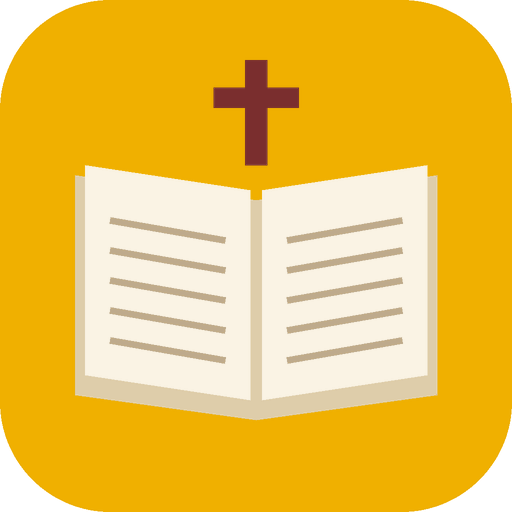
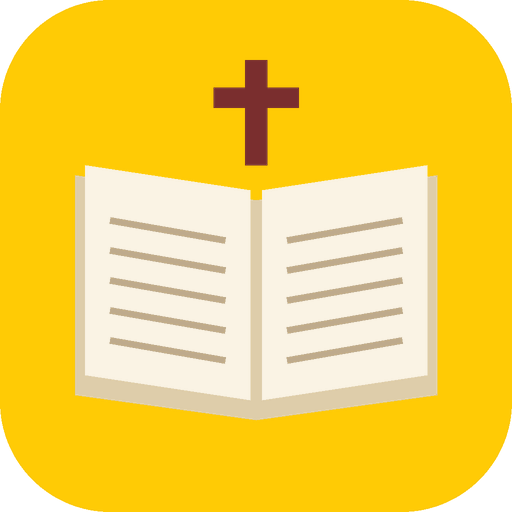
Add files via upload

diff --git a/headings.ts b/headings.ts
@@ -26,6 +26,9 @@ export interface TopicState { status: TopicStatus; topic?: string; error?: strin
 const KEY = 'sk-topic-v1';
 let cache: Record<string, string> = {};
 try { cache = JSON.parse(localStorage.getItem(KEY) || '{}'); } catch { cache = {}; }
+// 띄어쓰기 없이 붙어 버린 예전 장 주제는 버리고 새로 받기
+const squashed = (t: string) => t.replace(/[^가-힣]/g, '').length > 12 && !/\s/.test(t);
+for (const [k, v] of Object.entries(cache)) if (typeof v !== 'string' || squashed(v)) delete cache[k];
 // 예전 버전(1.4.0)에서 만든 장 주제는 그대로 가져오기
 try {
   const old = JSON.parse(localStorage.getItem('sk-heads-v1') || 'null') as Record<string, { topic?: string }> | null;
@@ -70,6 +73,7 @@ export async function ensureTopic(data: BibleData, book: number, chapter: number
     });
     const j = await res.json().catch(() => null);
     if (!res.ok || !j || j.error || !j.topic) throw new Error(j?.error || `서버 응답 ${res.status}`);
+    if (squashed(String(j.topic))) throw new Error('주제 띄어쓰기 오류 — 다시 시도해 주세요');
     cache[k] = String(j.topic).trim();
     try { localStorage.setItem(KEY, JSON.stringify(cache)); } catch { /* 저장 공간 부족 */ }
     setStatus(k, { status: 'ready', topic: cache[k] });

diff --git a/pwa.ts b/pwa.ts
@@ -49,6 +49,10 @@ export function formatBuildTime(iso: string) {
 }
 
 export const CHANGELOG: [string, string[]][] = [
+  ['1.5.2', [
+    '앱 아이콘 바탕색을 #FFCB05 (밝은 노랑)으로',
+    'AI 장 주제가 띄어쓰기 없이 붙어 나오던 문제 고침',
+  ]],
   ['1.5.1', [
     '앱 아이콘 바탕색을 진한 노랑으로 (십자가는 갈색)',
   ]],

diff --git a/README.md b/README.md
@@ -5,16 +5,16 @@
 
 ---
 
-## 🆕 업데이트 방법 (이미 설치해서 쓰고 있다면 여기만 하세요) — v1.5.1
+## 🆕 업데이트 방법 (이미 설치해서 쓰고 있다면 여기만 하세요) — v1.5.2
 
-1. 새 **`SK-성경-앱-v1.5.1.zip`**을 내려받아 **압축 풀기** → 파일 50개
+1. 새 **`SK-성경-앱-v1.5.2.zip`**을 내려받아 **압축 풀기** → 파일 50개
 2. GitHub 저장소 **psungkim-svg/sk-bible** → **Add file → Upload files** → **choose your files**
    → 압축 푼 폴더에서 **Ctrl + A** → **열기** → 50개가 다 올라가면 **Commit changes**
    (같은 이름 파일은 자동으로 새 것으로 바뀝니다. v1.5.0에서 새로 생긴 파일 6개: `bookinfo.ts`, `study.ts`, `StudyView.tsx`, `ChapterInfo.tsx`, `MemoryView.tsx`, `xref.json`(관련 구절 자료). GitHub에 예전 `bsb-headings.json`이 남아 있어도 괜찮습니다 — 쓰지 않는 파일이라 그냥 두셔도 됩니다)
-   > 🎨 v1.5.1: 앱 아이콘이 **진한 노랑 바탕**으로 바뀝니다. Chrome으로 설치했다면 앱을 몇 번 켜면 보통 하루 이틀 안에 홈 화면 아이콘도 저절로 바뀝니다. 계속 안 바뀌면 ① **설정 → 백업 파일 내보내기**로 북마크·암송을 먼저 저장 → ② 홈 화면 아이콘을 길게 눌러 삭제 ("데이터도 삭제"를 묻으면 체크하지 않기) → ③ 앱 주소로 들어가 **홈 화면에 추가** → ④ 내용이 비어 있으면 **설정 → 백업 불러오기**.
+   > 🎨 v1.5.2: 앱 아이콘이 **밝은 노랑(#FFCB05) 바탕**으로 바뀝니다. Chrome으로 설치했다면 앱을 몇 번 켜면 보통 하루 이틀 안에 홈 화면 아이콘도 저절로 바뀝니다. 계속 안 바뀌면 ① **설정 → 백업 파일 내보내기**로 북마크·암송을 먼저 저장 → ② 홈 화면 아이콘을 길게 눌러 삭제 ("데이터도 삭제"를 묻으면 체크하지 않기) → ③ 앱 주소로 들어가 **홈 화면에 추가** → ④ 내용이 비어 있으면 **설정 → 백업 불러오기**.
 3. 1~2분 뒤 Cloudflare **sk-bible → Deployments**에 ✓ 가 뜨면 끝
 4. 폰에서 SK-성경을 **껐다 켜면** 자동으로 새 버전으로 바뀝니다.
-   **설정 → 맨 아래 "버전"**에 `v1.5.1`이 보이면 성공입니다. (안 바뀌면 "최신 버전 확인" → "지금 업데이트")
+   **설정 → 맨 아래 "버전"**에 `v1.5.2`가 보이면 성공입니다. (안 바뀌면 "최신 버전 확인" → "지금 업데이트")
 
 > 💡 AI 기능(문장 찾기 설명, 원어 해설, 장 주제·배경, 구절 해설, 낱말·인물)은 Cloudflare **Workers AI** 무료 사용량(하루 1만 뉴런)을 함께 씁니다.
 > 따로 가입하거나 설정할 것은 없습니다. 한 번 만든 결과는 폰에 저장되어 다시 볼 때는 사용량이 들지 않습니다.
@@ -41,7 +41,7 @@
 
 ## 1단계. 앱 파일 받기 (컴퓨터에서) 💻
 
-1. 작업 공간의 **`SK-성경-앱-v1.5.1.zip`** 파일을 컴퓨터로 내려받습니다.
+1. 작업 공간의 **`SK-성경-앱-v1.5.2.zip`** 파일을 컴퓨터로 내려받습니다.
 2. 파일을 **마우스 오른쪽 버튼 → "압축 풀기"(또는 "모두 압축 풀기")** 합니다.
 3. 폴더 안에 **파일 44개**가 폴더 없이 한 곳에 들어 있습니다. (`App.tsx`, `index.html`, `nkrv.json`, `package.json`, `wrangler.jsonc` …)
    - 이 앱은 일부러 **폴더 없이** 만들었습니다. 그래서 파일을 한 번에 골라 올리기만 하면 됩니다.
@@ -298,6 +298,7 @@
 |---|---|
 | 설치 메뉴가 안 보여요 | 카카오톡이나 네이버 앱 안의 화면이 아닌 **삼성 인터넷 / Chrome 앱**에서 여세요 |
 | Cloudflare에서 Failed가 떠요 | 2-2의 6번처럼 저장소 첫 화면에 `package.json`이 **바로** 보이는지 확인하세요. Build command `npm run build`, output `dist`도 확인하세요 |
+| 친구에게 보낸 주소가 안 열려요 | ① 카카오톡 안에서 열지 말고 링크를 길게 눌러 복사 → **Chrome / 삼성 인터넷** 주소창에 붙여넣기 ② 주소가 정확히 `https://sk-bible.psungkim.workers.dev/` 인지 (앞뒤에 `++`, `)`, 띄어쓰기 등이 붙지 않았는지) ③ 회사·학교 와이파이에서는 막힐 수 있으니 **와이파이를 끄고 모바일 데이터**로 시도 ④ 처음 한 번은 성경 본문(약 1.3MB)을 받느라 몇 초 걸릴 수 있어요 |
 | 고친 내용이 폰에 반영되지 않아요 | 앱을 완전히 닫았다가 **두 번** 여세요 |
 | 문장으로 찾기의 첫 검색이 느려요 | 처음 한 번은 검색 준비(약 1초)를 합니다. 그다음부터는 바로 나옵니다 |
 
